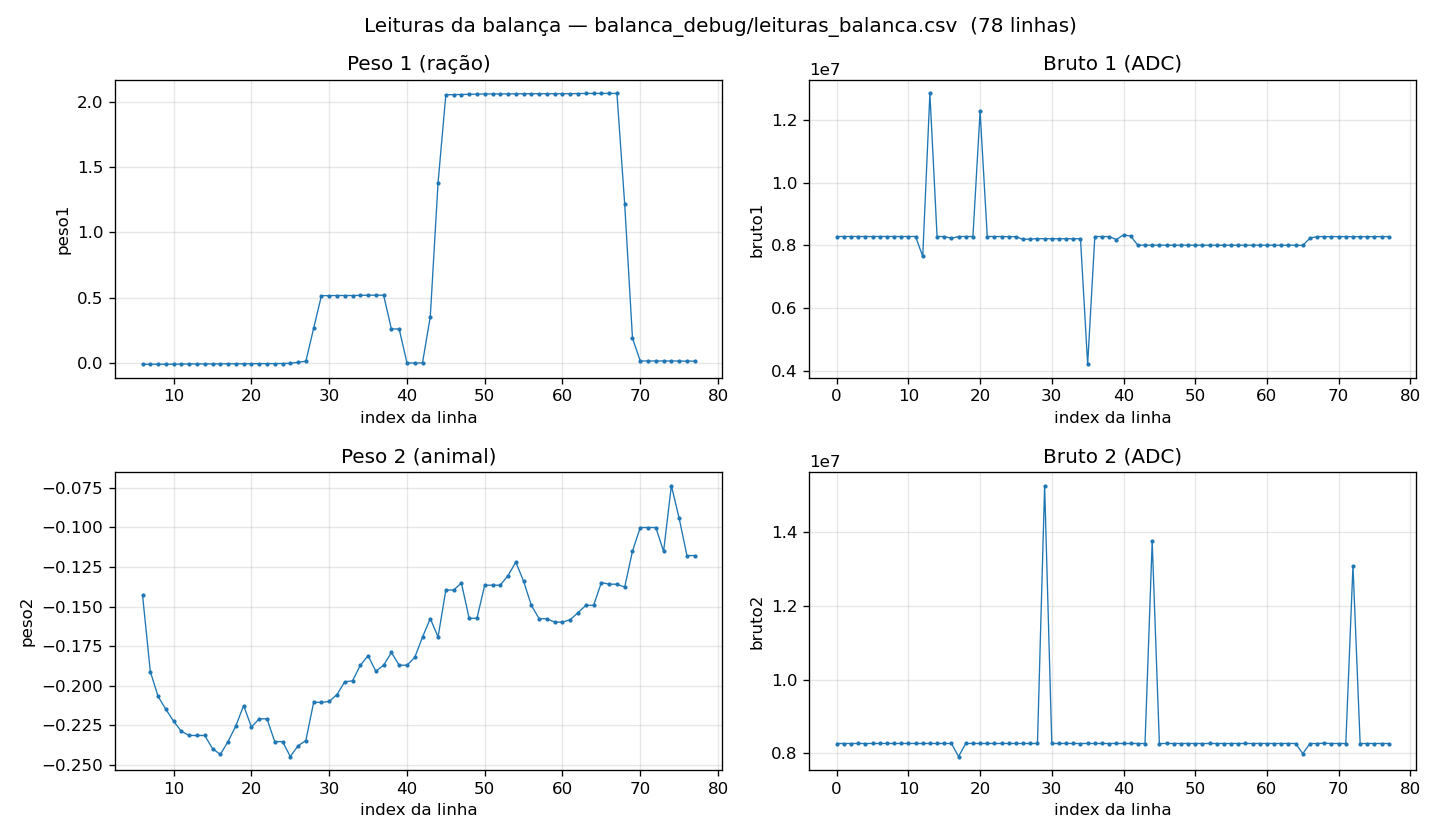
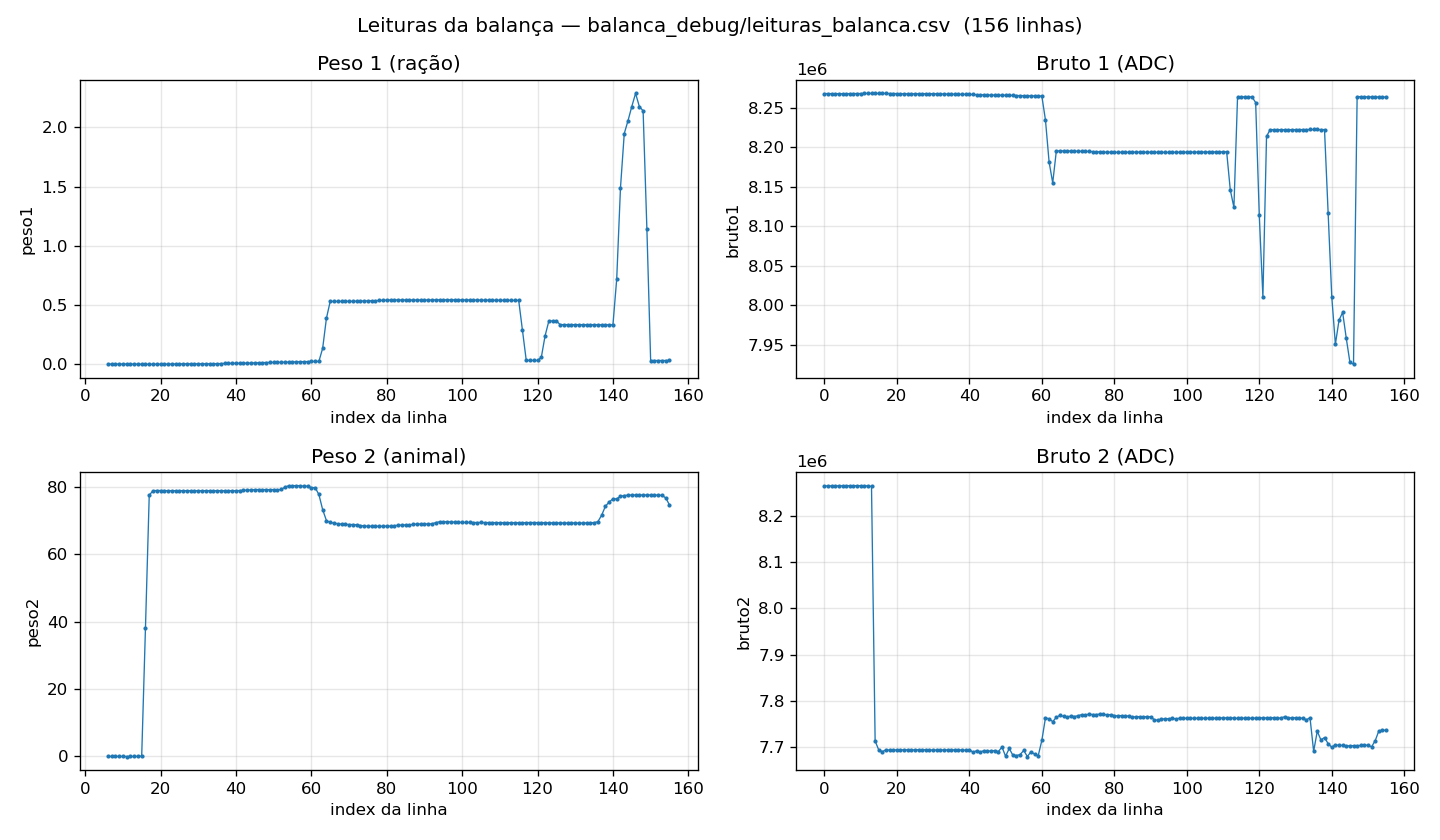
Site ta estranho mas css funcionando 100%

diff --git a/Comedouros_autom-ticos/core/relatorio.py b/Comedouros_autom-ticos/core/relatorio.py
@@ -10,6 +10,14 @@ from config import *
 import math
 
 COLUNAS_PESO = {"peso_animal", "peso_racao"}
+COLUNAS_DATA = {"hora_entrada", "hora_saida"}
+
+FORMATOS_DATA = (
+    "%a %b %d %H:%M:%S %Y",   # formato do CSV
+    "%d/%m/%Y %H:%M:%S",      # formato Sheets 
+    "%Y-%m-%d %H:%M:%S",
+)
+
 
 
 #Autoriza as credenciais através do json e retorna a primeira aba da planilha
@@ -34,23 +42,36 @@ def normalizar_valor(valor):
 
     return str(valor).strip()
 
+#tem que alterar ainda
+def normalizar_data(valor):
+    texto = normalizar_valor(valor)
+    for formato in FORMATOS_DATA:
+        try:
+            return datetime.strptime(texto, formato).strftime("%Y-%m-%d %H:%M:%S")
+        except ValueError:
+            continue
+    return texto
+
+
+
 def normalizar_peso(valor):
     try:
-        v = float(valor)
+        v = float(str(valor).strip().replace(",", "."))   # aceita "0,301"
     except (TypeError, ValueError):
         return ""
-    if not math.isfinite(v):      # pega None, nan e inf
+    if not math.isfinite(v):
         return ""
-    return round(v, 3)          # arredonda (não trunca)
+    return round(v, 3)# arredonda 
 
 
 def _normalizar_campo(coluna, valor):
     if coluna in COLUNAS_PESO:
         return normalizar_peso(valor)
+    if coluna in COLUNAS_DATA:
+        return normalizar_data(valor)
     return normalizar_valor(valor)
 
 
-#RECEBE OS DADOS COMO DICIONARIO, CRIA O CABECALHO E
 
 
 def _planilha_esta_vazia(planilha):
@@ -59,15 +80,27 @@ def _planilha_esta_vazia(planilha):
     return len(planilha.get_all_values()) == 0
 
 
+def formatar_para_envio(coluna, valor):
+    
+    if coluna in COLUNAS_PESO:
+        return normalizar_peso(valor)
+    
+    return normalizar_valor(valor)
+
+
 #GARANTE QUE A PRIMEIRA LINHA DA PLANILHA É O CABECALHO E RETORNA AS LINHAS DE DADOS COMO DICIONARIOS
 def _ler_registros_garantindo_cabecalho(planilha, colunas):
-    valores = planilha.get_all_values()
+    
+    valores = planilha.get_all_values(
+        value_render_option="UNFORMATTED_VALUE",       # números crus: 0.301, não "0,301"
+        date_time_render_option="FORMATTED_STRING",
+    )
 
     if not valores:
         planilha.append_row(colunas, value_input_option="USER_ENTERED")
         return []
 
-    primeira_linha = [celula.strip() for celula in valores[0]]
+    primeira_linha = [str(celula).strip() for celula in valores[0]]
 
     #se a primeira linha não tem nenhum nome de coluna, ela é um registro e o cabecalho foi perdido.
     #nesse caso o cabecalho é inserido no topo e todas as linhas são tratadas como dados, na ordem do CSV.
@@ -124,57 +157,39 @@ def sincronizar_csv_com_sheets():
     try:
         planilha = _autenticar_e_abrir_planilha()
 
-        #APENAS PROCURA SE EXISTE CSV
         if not os.path.exists(LOCAL_RELATORIO_CSV) or os.path.getsize(LOCAL_RELATORIO_CSV) == 0:
             logging.warning("CSV local não encontrado ou vazio. Nada para sincronizar.")
             return 0
 
-
-        local = pd.read_csv(LOCAL_RELATORIO_CSV)
+        #dtype=str evita que "11" vire "11.0" quando a coluna tem vazios
+        local = pd.read_csv(LOCAL_RELATORIO_CSV, dtype=str, keep_default_na=False)
 
         if local.empty:
             logging.info("CSV local está vazio. Nenhum dado para sincronizar.")
             return 0
 
         colunas = list(local.columns)
-
         online = _ler_registros_garantindo_cabecalho(planilha, colunas)
 
-        if online:
-            df_sheet = pd.DataFrame(online)
-            for coluna in colunas:
-                if coluna not in df_sheet.columns:
-                    df_sheet[coluna] = ""
-            df_sheet = df_sheet[colunas]
-        else:
-            df_sheet = pd.DataFrame(columns=colunas)
+        def chave(registro):
+            return tuple(_normalizar_campo(c, registro.get(c, "")) for c in colunas)
 
-        
-        def chave_linha(linha):
-            return tuple(_normalizar_campo(coluna, linha[coluna]) for coluna in colunas)
+        chaves_sheet = {chave(r) for r in online}
 
-        chaves_sheet = set()
-        for _, linha in df_sheet.iterrows():
-            chaves_sheet.add(chave_linha(linha))
+        linhas_novas = []
+        for registro in local.to_dict("records"):
+            k = chave(registro)
+            if k not in chaves_sheet:
+                linhas_novas.append([formatar_para_envio(c, registro[c]) for c in colunas])
+                chaves_sheet.add(k)
 
-        registros_faltantes = []
+        if linhas_novas:
+            #uma única chamada à API; RAW impede o Sheets de converter as datas
+            planilha.append_rows(linhas_novas, value_input_option="RAW")
 
-        for _, linha in local.iterrows():
-            chave = chave_linha(linha)
-            if chave not in chaves_sheet:
-                registros_faltantes.append(linha.to_dict())
-
-        enviados = 0
-        for registro in registros_faltantes:
-            if salvar_registro_em_sheets(registro):
-                enviados += 1
-            else:
-                logging.error(f"Falha ao sincronizar registro do CSV para Sheets: {registro}")
-
-        logging.info(f"Sincronização concluída: {enviados} registros enviados para o Sheets.")
-        return enviados
+        logging.info(f"Sincronização concluída: {len(linhas_novas)} registros enviados para o Sheets.")
+        return len(linhas_novas)
 
     except Exception as e:
         logging.error(f"Erro na sincronização CSV x Sheets: {e}")
         return 0
-

diff --git a/Comedouros_autom-ticos/core/maquina_estados.py b/Comedouros_autom-ticos/core/maquina_estados.py
@@ -59,7 +59,7 @@ class SistemaCocho:
             self.tag_info.to_csv(TAG_INFO_CSV, index=False)
             self.tag_info = pd.read_csv(TAG_INFO_CSV)
 
-    def logar_pesos_reais(self):
+    def print_pesos_reais(self):
         peso1, bruto1 = bl.ler_peso(1)
         peso2, bruto2 = bl.ler_peso(2)
         peso1_log = f"{peso1:.3f} kg" if peso1 is not None else "ERRO"
@@ -100,7 +100,7 @@ class SistemaCocho:
         entrada = time.ctime()
         inicio = time.monotonic()
 
-        self.logar_pesos_reais()
+        self.print_pesos_reais()
         
         try:
             
@@ -143,8 +143,8 @@ class SistemaCocho:
                                     f"{minutos}m {segundos:02d}s"
                                     if minutos != 0 or segundos != 0 else 0
                                 ),
-                                'peso_animal': 0,
-                                'peso_racao': -2
+                                'peso_animal': -2,
+                                'peso_racao': 0
                             }
 
                         ##TELEGRAM  ALERTA
@@ -170,7 +170,7 @@ class SistemaCocho:
 
                         #começa a rodar o motor e ler balanca 3. ALIMENTAÇÃO (Motor/Balança)
                         while True:
-                            self.logar_pesos_reais()
+                            self.print_pesos_reais()
 
                             if not sr.confirmar_presenca_sensor('1'):
                                 motor._definir_estado_normal(1, "parado", 0)
@@ -199,7 +199,7 @@ class SistemaCocho:
                         motor._definir_estado_normal(2, "horario", 255)
 
                         for _ in range(10):
-                            self.logar_pesos_reais()
+                            self.print_pesos_reais()
                             peso2,_ = bl.ler_peso(2)
                             if peso2 is not None:
                                 peso_animal_buffer.append(peso2)

diff --git a/Comedouros_autom-ticos/core/verificar_intervalo_alimentacao.py b/Comedouros_autom-ticos/core/verificar_intervalo_alimentacao.py
@@ -7,6 +7,12 @@ from config import TAG_INFO_CSV
 
 INTERVALO_HORAS = 24
 
+#Tem que retornar -2 no peso
+
+#entao tod
+
+#   if verificar_intervalo == TRUE
+#        return dicionario com todos os valores iguais (exceto o peso que deve ser -2), 
 
 def _tag_e_mestra(tag_id):
     """Carrega a configuração atual da tag e verifica a permissão mestra."""
@@ -33,7 +39,7 @@ def _tag_e_mestra(tag_id):
 
 def verificar_intervalo_alimentacao(tag_id, caminho_csv, intervalo_horas=INTERVALO_HORAS):
     """
-    Verifica se a tag atual já realizou alimentação nas últimas `intervalo_horas` horas.
+    Verifica se a tag atual já realizou alimentação nas últimas horas.
     A regra é individual por tag, com exceção da tag mestra, que sempre é liberada.
 
     Args:

diff --git a/Comedouros_autom-ticos/core/main.py b/Comedouros_autom-ticos/core/main.py
@@ -21,7 +21,9 @@ def rodar_ciclos(sistemaCocho):
     while not parar.is_set(): #loop principal
 
         if time.monotonic() - ultimo_log_pesos >= 1:
-            sistemaCocho.logar_pesos_reais()
+
+            #atribuido alterado de logar_pesos_reais para print_pesos_reais
+            sistemaCocho.print_pesos_reais()
             ultimo_log_pesos = time.monotonic()
 
         if time.monotonic() - ultima_recal > 30:     # a cada 30s
@@ -101,7 +103,7 @@ if __name__ == "__main__":
     try:
         sistemaCocho.configurar_cocho()
         print("\nLeitura inicial das balanças:")
-        sistemaCocho.logar_pesos_reais()
+        sistemaCocho.print_pesos_reais()
     except KeyboardInterrupt:
         desligar()
         sys.exit()

diff --git a/Comedouros_autom-ticos/core/config.py b/Comedouros_autom-ticos/core/config.py
@@ -59,10 +59,23 @@ SCOPE = [
 ]
 
 
-LOCAL_RELATORIO_CSV = "/home/raspberry/comedouros-automaticos_2.0/core/relatorio_cocho.csv"
+LOCAL_RELATORIO_CSV = "/home/raspberry/comedouros_3/Comedouros/Comedouros_autom-ticos/core/relatorio_cocho.csv"
 LOCAL_CREDENCIAL = "/home/raspberry/comedouros-automaticos_2.0/core/SheetsKey.json"
 NOME_PLANILHA = "Relatorio_Cocho" 
 
 # --- Dados tag_info.csv ---
 
 TAG_INFO_CSV = "/home/raspberry/comedouros-automaticos_2.0/core/tag_info.csv"
+
+# Dados Telegram
+
+
+BOT_TOKEN = "8130076024:AAH3WOv1xJAT5ylbZRuGJmMMlkb3b2Exf18"
+CHAT_ID = "-1002684732798"
+LOG_FILE_PATH = "/home/raspberry/comedouros-automaticos/core/cocho_log.txt"
+
+
+
+
+
+

diff --git a/Comedouros_autom-ticos/core/notificacoes.py b/Comedouros_autom-ticos/core/notificacoes.py
@@ -5,7 +5,6 @@ import time
 from pathlib import Path
 import requests
 
-
 def _carregar_tag_info():
     """Carrega as tags usando a configuração e o CSV do projeto atual."""
     try:
@@ -52,14 +51,10 @@ def _carregar_tag_info():
 
 TAG_INFO = _carregar_tag_info()
 
-BOT_TOKEN = os.environ.get(
-    "TELEGRAM_BOT_TOKEN",
-    "COLE_SEU_TOKEN_DO_BOT_AQUI",
-).strip()
-CHAT_ID = os.environ.get(
-    "TELEGRAM_CHAT_ID",
-    "COLE_SEU_CHAT_ID_AQUI",
-).strip()
+from config import BOT_TOKEN, CHAT_ID
+
+BOT_TOKEN = str(BOT_TOKEN).strip()
+CHAT_ID = str(CHAT_ID).strip()
 
 
 def _resolver_log_path():
